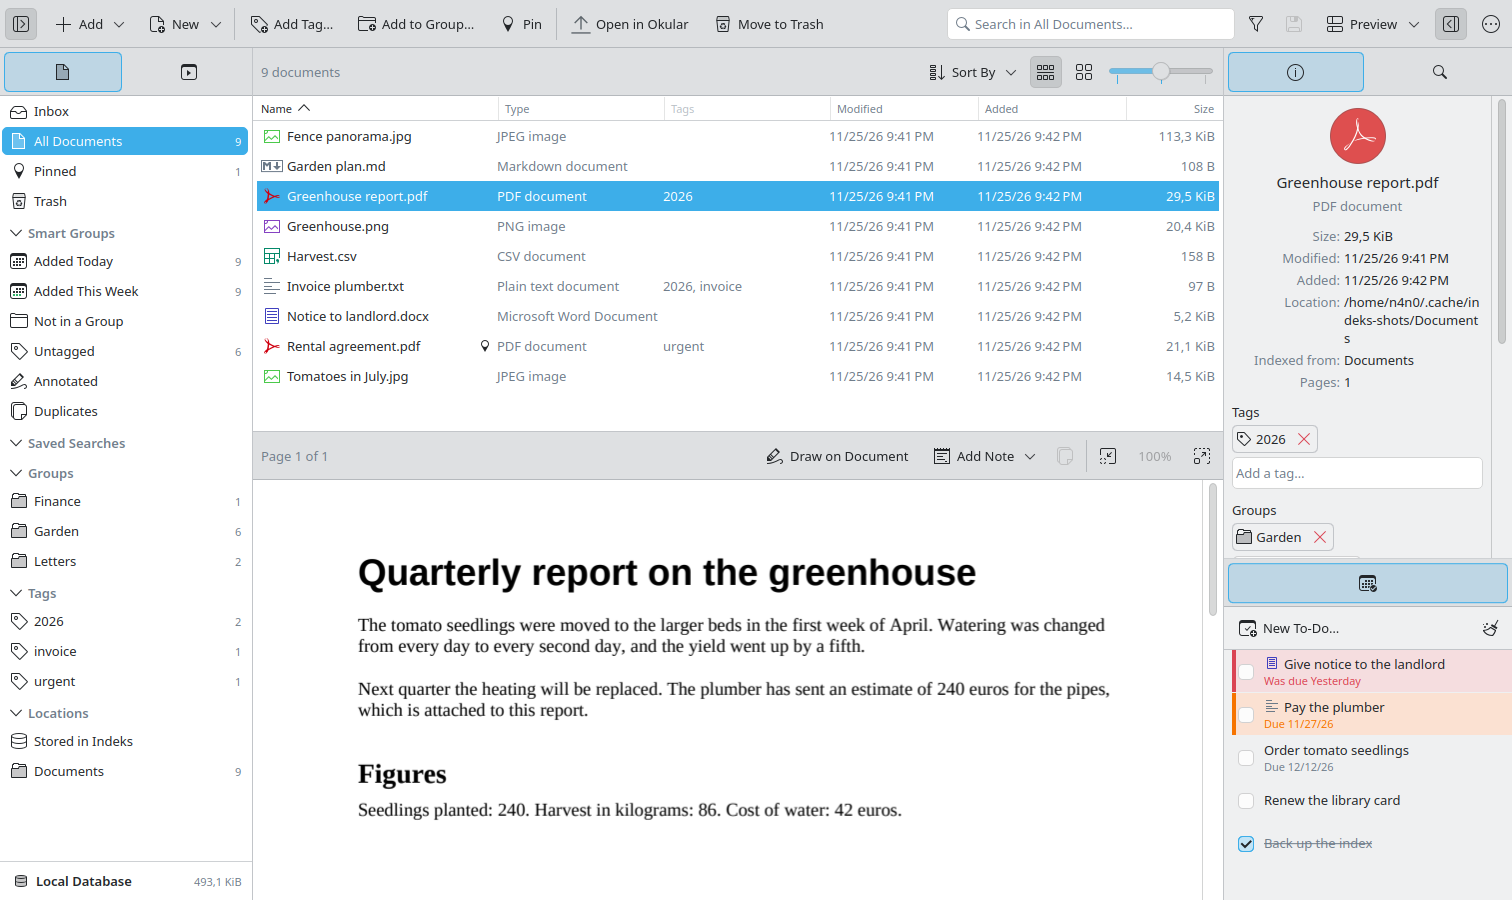
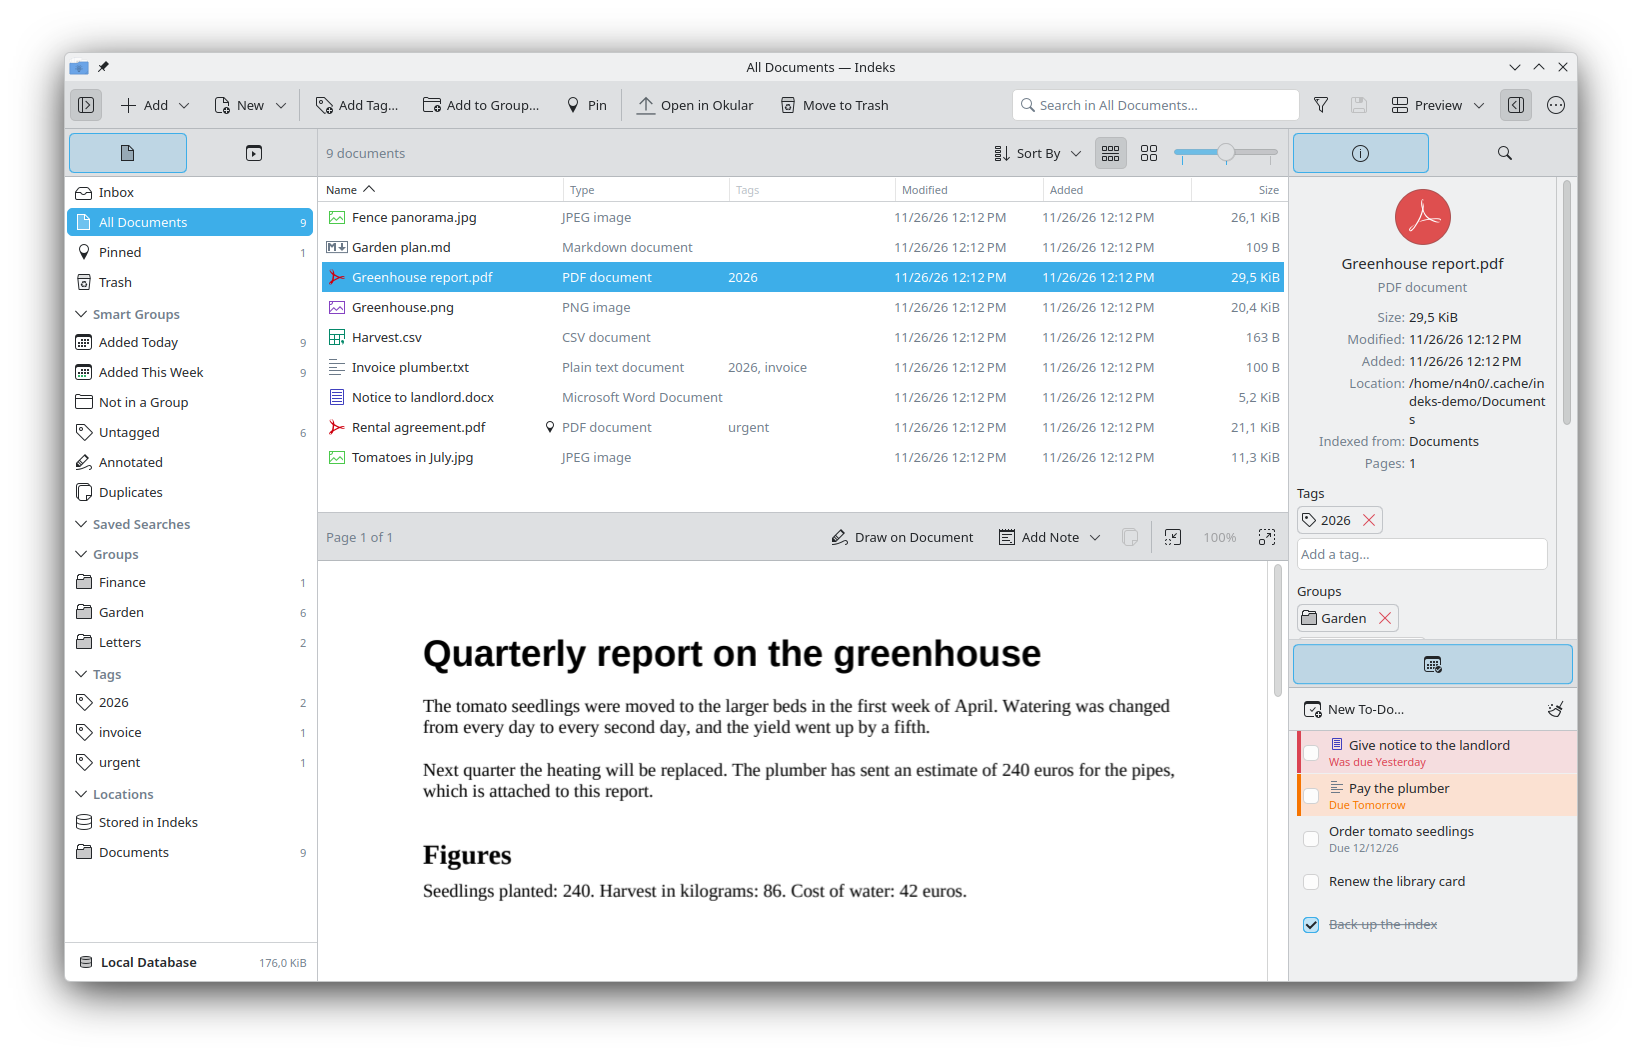
Manual: the picture of the whole window with its frame and shadow
Taken as the one of the README is, by KWin itself, on nothing. The builder
drew a line around every wide picture to say where it ends; around one that
is transparent at its corner it draws none now, since the frame and the
shadow say that already and a line around them boxes them in.

diff --git a/doc/tools/manualbuilder.cpp b/doc/tools/manualbuilder.cpp
@@ -1126,8 +1126,14 @@ int main(int argc, char **argv)
             const qreal y = top + figure.offset;
             const QRectF where(left + (fullWidth - figure.size.width()) / 2, y, figure.size.width(), figure.size.height());
             painter.drawImage(where, figure.image);
-            painter.setPen(QPen(RuleColor, mm(0.15)));
-            painter.drawRect(where);
+            // A line around it says where the picture ends, which a picture of a part of
+            // the window does not say itself. One of a whole window does, with its frame
+            // and the shadow around it, on nothing: a line around that would box it in.
+            const bool hasOwnEdge = figure.image.hasAlphaChannel() && qAlpha(figure.image.pixel(0, 0)) == 0;
+            if (!hasOwnEdge) {
+                painter.setPen(QPen(RuleColor, mm(0.15)));
+                painter.drawRect(where);
+            }
             painter.setFont(captionFont);
             painter.setPen(Faint);
             painter.drawText(QRectF(left, where.bottom() + mm(1.5), fullWidth, mm(5)), Qt::AlignHCenter | Qt::AlignVCenter, figure.caption);

diff --git a/doc/developer/documentation.md b/doc/developer/documentation.md
@@ -77,6 +77,16 @@ taken from an Indeks with made-up documents, never from real ones, at the size o
 at 96 dpi. Keep them few: every picture has to be taken again when the part it shows
 changes.
 
+A picture of the whole window (`main-window.png`, and `doc/images/indeks.png` of the README)
+is taken with the frame of the window and the shadow around it, on nothing, the way
+Spectacle takes a window. KWin makes such a picture itself: `CaptureActiveWindow` of
+`org.kde.KWin.ScreenShot2` with `include-decoration` and `include-shadow`, asked of a KWin
+that runs for this alone (`kwin_wayland --virtual`, in a D-Bus session and runtime folder of
+its own; see [development.md](development.md) for those). The builder draws a thin line
+around a wide picture, to say where it ends; around a picture that is transparent at its
+corner, as these are, it draws none. Pictures of a part of the window are cut out of the
+window and have neither frame nor shadow.
+
 ### Building it
 
 The manual is built with Indeks, by `indeks-manualbuilder` (`doc/tools/manualbuilder.cpp`):
